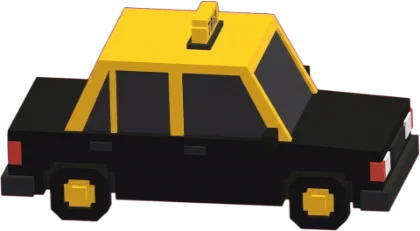
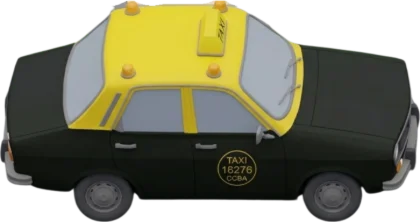
Pana Express: el taxi con la imagen nueva del dueño (de costado, desde arriba)
Fondo blanco sacado con importar-personaje (&fondo=blanco, relleno desde los bordes). Se ve más prolijo que el modelo 3D, que queda guardado pero no se carga.

diff --git a/games/pana.js b/games/pana.js
@@ -3,8 +3,9 @@ import { assetUrl, getCustom } from '../js/art.js';
 
 // Imágenes de vehículos del dueño (de costado, vistos desde arriba, mirando a la derecha). Los de la mano
 // contraria se espejan. Los que no tienen imagen se dibujan con cajas en código.
-// (la primera imagen del taxi se veía demasiado de costado: hace falta una con la cámara más alta)
-const AUTO_IMG = {};
+// (la primera imagen del taxi se veía demasiado de costado; la segunda, con la cámara más alta, anda bien)
+const AUTO_IMG = { taxi: 'autoTaxi' };
+const IMG_STRETCH = 1.0;                 // estirón de alto de las imágenes (la vieja, más de costado, necesitaba 1,35)
 
 // Profundidad que ocupa un vehículo dentro de su carril (antes 0,17 a 0,83: se veían muy anchos)
 const HALF_LO = 0.25, HALF_HI = 0.75;
@@ -63,9 +64,9 @@ import { loadModel, renderOblique, renderWorld } from '../js/model3d.js';
 // Modelos 3D del dueño (assets/modelos/). up y front: cómo viene orientado cada archivo.
 // Los que no tienen modelo se dibujan con cajas en código.
 // Pasarlos antes por `node tools/glb-colores.mjs` (textura → colores por vértice: de 6,4 MB a 281 KB el taxi).
-const MODELS = {
-  taxi: { src: 'assets/modelos/taxi.glb', up: 'y', front: '-z' },   // taxi porteño negro y amarillo (IA, 11.600 triángulos)
-};
+// El taxi tiene modelo (assets/modelos/taxi.glb, up 'y', front '-z') pero se usa la imagen (AUTO_IMG), que se ve
+// más prolija: si un vehículo tiene imagen, el modelo no se usa, así que no se carga.
+const MODELS = {};
 
 // Pana Express: el frogger del delivery. Cruzás la Panamericana en bici, casillero por casillero,
 // y del otro lado viene otra, y otra: la ruta no termina. Puntos = metros recorridos, una sola vida.
@@ -378,7 +379,7 @@ export default {
       if (img) {
         // La imagen viene de una cámara un poco más baja que la del juego: se agranda apenas y se estira de alto
         // para que llene el carril como los demás. Las ruedas apoyan en el borde cercano del vehículo.
-        const w = len * cw * 1.14, h = w * img.height / img.width * 1.35;
+        const w = len * cw * 1.14, h = w * img.height / img.width * IMG_STRETCH;
         const [bx, by] = P(x, 0, z0 + 0.02);
         const cx = bx + len * cw / 2;
         ctx.fillStyle = 'rgba(0,0,0,.28)';

diff --git a/index.html b/index.html
@@ -9,24 +9,24 @@
 <link rel="preconnect" href="https://fonts.googleapis.com">
 <link rel="preconnect" href="https://fonts.gstatic.com" crossorigin>
 <link rel="stylesheet" href="https://fonts.googleapis.com/css2?family=Chivo:wght@400;700;800;900&family=Sancreek&display=swap">
-<link rel="stylesheet" href="css/app.css?v=202610212044">
+<link rel="stylesheet" href="css/app.css?v=202610212055">
 <!-- Versiones de los módulos para saltear el caché; se regenera con: node tools/version.mjs -->
 <script type="importmap">{
  "imports": {
-  "./js/app.js": "./js/app.js?v=202610212044",
-  "./js/art.js": "./js/art.js?v=202610212044",
-  "./js/data.js": "./js/data.js?v=202610212044",
-  "./js/engine.js": "./js/engine.js?v=202610212044",
-  "./js/firebase-config.js": "./js/firebase-config.js?v=202610212044",
-  "./js/model3d.js": "./js/model3d.js?v=202610212044",
-  "./js/tournament.js": "./js/tournament.js?v=202610212044",
-  "./games/carpincho.js": "./games/carpincho.js?v=202610212044",
-  "./games/fitito.js": "./games/fitito.js?v=202610212044",
-  "./games/index.js": "./games/index.js?v=202610212044",
-  "./games/pana.js": "./games/pana.js?v=202610212044",
-  "./games/tero.js": "./games/tero.js?v=202610212044",
-  "./games/torre.js": "./games/torre.js?v=202610212044",
-  "./games/viborita.js": "./games/viborita.js?v=202610212044"
+  "./js/app.js": "./js/app.js?v=202610212055",
+  "./js/art.js": "./js/art.js?v=202610212055",
+  "./js/data.js": "./js/data.js?v=202610212055",
+  "./js/engine.js": "./js/engine.js?v=202610212055",
+  "./js/firebase-config.js": "./js/firebase-config.js?v=202610212055",
+  "./js/model3d.js": "./js/model3d.js?v=202610212055",
+  "./js/tournament.js": "./js/tournament.js?v=202610212055",
+  "./games/carpincho.js": "./games/carpincho.js?v=202610212055",
+  "./games/fitito.js": "./games/fitito.js?v=202610212055",
+  "./games/index.js": "./games/index.js?v=202610212055",
+  "./games/pana.js": "./games/pana.js?v=202610212055",
+  "./games/tero.js": "./games/tero.js?v=202610212055",
+  "./games/torre.js": "./games/torre.js?v=202610212055",
+  "./games/viborita.js": "./games/viborita.js?v=202610212055"
  }
 }</script>
 </head>

diff --git a/tools/importar-personaje.html b/tools/importar-personaje.html
@@ -17,7 +17,27 @@ img.onload = () => {
   const c = document.createElement('canvas'); c.width = w; c.height = h;
   const g = c.getContext('2d'); g.drawImage(img, 0, 0);
   const id = g.getImageData(0, 0, w, h), d = id.data;
-  for (let i = 0; i < d.length; i += 4) {
+  if (q.get('fondo') === 'blanco') {
+    // &fondo=blanco: el fondo es el blanco/gris clarito que toca los bordes (relleno desde afuera, así no se comen
+    // los blancos del vehículo: faros, patente). El borde queda suave según qué tan claro es cada píxel.
+    const light = p => { const r = d[p * 4], gg = d[p * 4 + 1], b = d[p * 4 + 2]; return Math.min(r, gg, b) > 222 && Math.max(r, gg, b) - Math.min(r, gg, b) < 28; };
+    const bg = new Uint8Array(w * h), st = [];
+    for (let x = 0; x < w; x++) st.push(x, (h - 1) * w + x);
+    for (let y = 0; y < h; y++) st.push(y * w, y * w + w - 1);
+    while (st.length) {
+      const p = st.pop();
+      if (bg[p] || !light(p)) continue;
+      bg[p] = 1;
+      const x = p % w, y = (p / w) | 0;
+      if (x > 0) st.push(p - 1); if (x < w - 1) st.push(p + 1); if (y > 0) st.push(p - w); if (y < h - 1) st.push(p + w);
+    }
+    for (let p = 0; p < w * h; p++) {
+      if (bg[p]) { d[p * 4 + 3] = 0; continue; }
+      const x = p % w, y = (p / w) | 0;
+      const edge = (x > 0 && bg[p - 1]) || (x < w - 1 && bg[p + 1]) || (y > 0 && bg[p - w]) || (y < h - 1 && bg[p + w]);
+      if (edge) { const mn = Math.min(d[p * 4], d[p * 4 + 1], d[p * 4 + 2]); d[p * 4 + 3] = Math.round(255 * Math.max(0.25, Math.min(1, (250 - mn) / 70))); }
+    }
+  } else for (let i = 0; i < d.length; i += 4) {
     const r = d[i], gr = d[i + 1], b = d[i + 2];
     const m = Math.min(r - gr, b - gr);              // cuánto "magenta" tiene
     let a = 1 - (m - 10) / 50;

diff --git a/CLAUDE.md b/CLAUDE.md
@@ -37,6 +37,6 @@ Desafío diario de minijuegos argentos entre amigos, web para celular (después 
 ## Pendientes
 
 - **Fitito:** el 21/10/2026 se arregló que los carriles quedaran vacíos mucho tiempo (ver arriba). Falta que el dueño lo juegue y diga si quedó bien de difícil, y revisar que el choque en todo el largo no lo haya dejado injusto.
-- Modelos 3D de autos y camiones argentinos (el dueño los hace con IA en otro lado con prompts que le pasamos) para usar en el Fitito y en Pana Express. Ya está el lector: `js/model3d.js` lee GLB sin librerías (colores por vértice, material o textura) y `renderOblique()` lo dibuja una vez con la cámara de Pana Express como imagen; en `games/pana.js` se registran en `MODELS` (`src`, `up`, `front`) y los vehículos sin modelo siguen con cajas. Para revisar uno: `tools/ver-modelo.html?src=...&up=y&front=+x`. **Primer modelo en uso (21/10/2026): el taxi** (`assets/modelos/taxi.glb`, del dueño, hecho con IA; viene con Y arriba y la trompa hacia -Z). Antes de usar un GLB pasarlo por `node tools/glb-colores.mjs entrada.glb salida.glb`: pasa la textura a colores por vértice y la saca (el taxi bajó de 6,4 MB a 281 KB; además el modo sin ventana de Edge se colgaba decodificando la textura grande). Pana dibuja los dos sentidos de cada modelo apenas carga (`prewarm`), porque dibujarlo la primera vez en plena partida trababa ~50 ms (más en el celular). El primer GLB del dueño (taxi hecho con trimesh) se descartó porque se veía mal, y los autos armados en código también (toscos y anchos). **Decisión del dueño: los vehículos van solo con GLB.** Se probó con imágenes de IA (estilo Crossy Road) y la IA nunca acertó el ángulo de la cámara del juego (salían isométricas en diagonal o de costado), así que se dejó el juego como estaba. El circuito para imágenes quedó armado igual (`AUTO_IMG` en `games/pana.js`, `assets/autos/taxi.webp` sin usar) por si se retoma. Para los GLB conviene image-to-3D (TRELLIS o Hunyuan3D en Hugging Face, o Tripo) partiendo de una imagen de tres cuartos del vehículo con fondo liso.
+- Modelos 3D de autos y camiones argentinos (el dueño los hace con IA en otro lado con prompts que le pasamos) para usar en el Fitito y en Pana Express. Ya está el lector: `js/model3d.js` lee GLB sin librerías (colores por vértice, material o textura) y `renderOblique()` lo dibuja una vez con la cámara de Pana Express como imagen; en `games/pana.js` se registran en `MODELS` (`src`, `up`, `front`) y los vehículos sin modelo siguen con cajas. Para revisar uno: `tools/ver-modelo.html?src=...&up=y&front=+x`. **Primer modelo en uso (21/10/2026): el taxi** (`assets/modelos/taxi.glb`, del dueño, hecho con IA; viene con Y arriba y la trompa hacia -Z). Antes de usar un GLB pasarlo por `node tools/glb-colores.mjs entrada.glb salida.glb`: pasa la textura a colores por vértice y la saca (el taxi bajó de 6,4 MB a 281 KB; además el modo sin ventana de Edge se colgaba decodificando la textura grande). Pana dibuja los dos sentidos de cada modelo apenas carga (`prewarm`), porque dibujarlo la primera vez en plena partida trababa ~50 ms (más en el celular). El primer GLB del dueño (taxi hecho con trimesh) se descartó porque se veía mal, y los autos armados en código también (toscos y anchos). **Imágenes de IA (21/10/2026): funcionan si son de costado y vistas desde arriba** (el auto horizontal, trompa a la derecha, que se vea bien el techo; así es la cámara de Pana). El taxi usa `assets/autos/taxi.webp` (`AUTO_IMG`, fondo blanco sacado con `tools/importar-personaje.html?...&fondo=blanco`, 12 KB) y se ve más prolijo que el GLB; la mano contraria se espeja. Prompt que anduvo: el vehículo de costado visto desde arriba, mismo ángulo que la imagen del taxi adjunta, fondo blanco, textos al derecho (la IA a veces devuelve la imagen espejada). Faltan auto común, camioneta, colectivo y camión. Para los GLB conviene image-to-3D (TRELLIS o Hunyuan3D en Hugging Face, o Tripo) partiendo de una imagen de tres cuartos del vehículo con fondo liso.
 
 - Más juegos, con las ideas del dueño.
